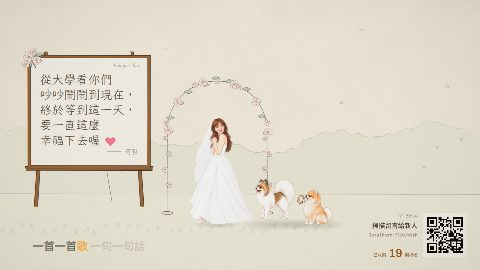
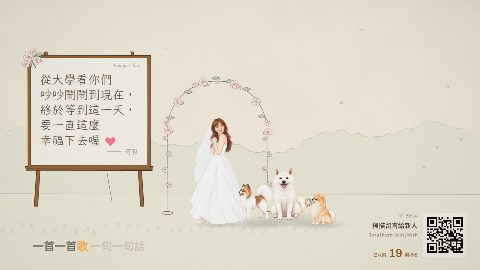
大螢幕：切蛋糕加入元元（跳起來接住彈出的蛋糕）；丟捧花三隻搶（元元用鼻子頂、芃芃咬住）

Changed region(s): [[0.5, 0.6222, 0.7188, 0.8296], [0.875, 0.8, 0.9375, 0.9185], [0.8125, 0.8593, 0.8438, 0.8889]]

diff --git a/frontend/src/wall/scenes/bouquet.ts b/frontend/src/wall/scenes/bouquet.ts
@@ -1,9 +1,11 @@
 // 丟捧花（亮、wedding、婚禮服）：午後的草地婚禮。孟庭背對大家（面向左邊），預備一小節，在小節線上把捧花往後甩過頭頂，
-// 捧花沿著一道高高的弧線飛過畫面，芃芃在拍點上跳起來一口咬住（QQ 早一拍跳、撲空），然後叼著捧花得意地坐好，孟庭回頭大笑。
-// 角色是 Codex 畫的紙偶（mt_bouquet_*、pp_bouquet，跳起來借 pp_jump／qq_jump）。
+// 捧花沿著一道高高的弧線飛過畫面，三隻狗搶：QQ 早一拍跳、撲空；元元（白色柴犬，最高）下一拍跳起來用鼻子一頂，捧花彈高一點；
+// 再下一拍芃芃跳起來一口咬住，叼著捧花得意地坐好，孟庭回頭大笑。
+// 角色是 Codex 畫的紙偶（mt_bouquet_*、pp_bouquet，跳起來借 pp_jump／qq_jump／yy_jump）。三隻狗同一個場景尺度（大小照 dogs3-lineup.png）。
 //  - 預備：孟庭抱著捧花跟著拍子「一、二、三」往下盪（每拍壓一下），小節線前一拍往下蹲最低 → **小節線上甩出去**（throw，
-//    捧花從圖上她頭後面的位置接手給程式飛）→ 兩拍後落在芃芃嘴邊：芃芃起跳、最高點剛好在那一拍咬到；QQ 早一拍跳、撲空落地。
-//    咬到的下一個小節線孟庭回頭（turn）、芃芃換成叼著捧花坐好（pp_bouquet），每拍搖一下；QQ 在旁邊繞著跳。
+//    捧花從圖上她頭後面的位置接手給程式飛）→ 第 1 拍 QQ 跳、撲空 → 第 2 拍元元跳到最高、鼻子頂到捧花（一小圈火花），捧花往右彈一道小弧線
+//    → 第 3 拍芃芃起跳、最高點剛好咬到。下一個小節線孟庭回頭（turn）、芃芃換成叼著捧花坐好（pp_bouquet），每拍搖一下；
+//    QQ 在旁邊繞著跳，元元正面坐好張嘴笑（穩重，只跟著拍子搖尾巴一樣地晃）。
 //  - **焦點是主打留言**：寫在左邊草地上的木框迎賓板（白底、左上角一束手繪的花），深墨手寫字、署名；
 //    照「留言尺寸與版面比例標準 v2」：字 40～60、板子最大 500 × 420，高度跟著留言。沒有留言時板子寫邀請、字淡，歌詞變主角。
 //  - 歌詞在草地前面（下三分之一，比留言小一級 40～52），照跟唱規則逐字亮。孟庭身後一座花拱門。
@@ -16,7 +18,7 @@ import { F, font, loadText } from '../engine/type';
 import { LIN, rgba, mixRgba } from '../engine/palette';
 import { clamp, ease, prog, hash } from '../engine/util';
 import { lyricAt, layoutLyric, drawLyric, barAfter, msgChars } from './_motifs';
-import { inkFor, inkLine, inkPath, inkShape, inkPoly, inkEllipse, heartPop, arcAt, arcPts, drawNote, paperBG, type Pt, type Ink, type Note } from './_couple';
+import { inkFor, inkLine, inkPath, inkShape, inkPoly, inkEllipse, heartPop, arcAt, drawNote, paperBG, type Pt, type Ink, type Note } from './_couple';
 import { loadPuppets, drawPick, drawPuppet, puppetPoint, puppetBox, puppetShadow, puppetIn, jumpArc, breathe, beatKick, hop, noteV2, tightenNote, type PuppetOpts } from './_puppet';
 import { lyricV2 } from './_v2';
 
@@ -25,10 +27,14 @@ export const spec: PlateSpecDecl = { group: 'couple', family: 'wedding', paper: 
 const FLOOR = 890;
 const SZ = 440;
 /** 孟庭（翻過來面向左、背對右邊的「賓客」）、芃芃與 QQ（翻過來面向左，看著飛過來的捧花）。 */
-const OM_X = 870, PP_X = 1250, QQ_X = 1100;
-const DOG_S = 1.25;
+const OM_X = 870, PP_X = 1272, QQ_X = 1025, YY_X = 1140;
+/** 元元站在另外兩隻後面一點（地面往上 18 px），三隻擠在一起搶但看得出是三隻。 */
+const YY_BACK = 18;
+const DOG_S = 1.1;
 /** 芃芃、QQ 跳多高。 */
-const PJUMP = 150, QJUMP = 90;
+const PJUMP = 150, QJUMP = 90, YJUMP = 118;
+/** 元元頂完之後，捧花彈到芃芃嘴邊的小弧線有多高（px）。 */
+const BOUNCE_UP = 110;
 /** 迎賓板：最大的範圍（標準 v2）、寫字的內距；底邊固定在畫架上。 */
 const BOARD = { x: 120, bottom: 660, w: 500, h: 420 };
 const PAD = { x: 36, top: 56, bottom: 30 };
@@ -39,7 +45,10 @@ const LYR = { x: 150, base: 990, w: 1120 };
 /** 出手那一格孟庭的樣子（往後仰、整張往上一送之前）：捧花的起點照這個姿勢算，跟 drawOmena 在出手那一刻的參數一樣。 */
 const THROW_O: PuppetOpts = { h: SZ, flip: true, rot: -0.08, pivot: 0.3, squash: -0.06 };
 const INVITE = '掃描右下角 QR code，把祝福寫上大螢幕';
-const P = { ready: 'mt_bouquet_ready', throw: 'mt_bouquet_throw', turn: 'mt_bouquet_turn', ppHold: 'pp_bouquet', ppJump: 'pp_jump', ppStand: 'pp_stand', qqJump: 'qq_jump', qqStand: 'qq_stand' } as const;
+const P = {
+  ready: 'mt_bouquet_ready', throw: 'mt_bouquet_throw', turn: 'mt_bouquet_turn', ppHold: 'pp_bouquet', ppJump: 'pp_jump', ppStand: 'pp_stand',
+  qqJump: 'qq_jump', qqStand: 'qq_stand', yyStand: 'yy_stand', yyJump: 'yy_jump', yySit: 'yy_sit',
+} as const;
 
 export default class Bouquet extends Scene {
   paper = paperBG();
@@ -50,13 +59,14 @@ export default class Bouquet extends Scene {
   note: Note | null = null;
   board = { x: BOARD.x, y: BOARD.bottom - BOARD.h, w: BOARD.w, h: BOARD.h };
   /** 出手、咬到、回頭的時間；QQ 撲空的時間。 */
-  tThrow = 0; tCatch = 0; tTurn = 0; tMiss = 0;
+  tThrow = 0; tCatch = 0; tTurn = 0; tMiss = 0; tHead = 0;
   keys: [number, string][] = [];
   /** throw 那張圖上捧花與緞帶的位置（出手那一格的姿勢）：飛出去的就是這一束。 */
   from: Pt & { r?: number } = { x: 0, y: 0 };
   ribbon: Pt & { r: number } = { x: 0, y: 0, r: 0 };
+  /** 元元跳到最高時鼻子的位置（頂到捧花的那一點）、芃芃跳到最高時嘴的位置（咬到的那一點）。 */
+  head: Pt = { x: 0, y: 0 };
   to: Pt = { x: 0, y: 0 };
-  arc: Pt[] = [];
   lyricSize = 52;
   msgT0 = 0;
 
@@ -72,16 +82,18 @@ export default class Bouquet extends Scene {
     const nb = (this.ctx.end - s) / Math.max(0.3, au.timeOfBar(b0 + 1) - au.timeOfBar(b0));
     this.tThrow = barAfter(au, s + Math.max(1.2, bp * 3), nb >= 8 ? 1 : 0);
     const tb = Math.round(au.beatAt(this.tThrow));
-    this.tCatch = au.timeOfBeat(tb + 2);
     this.tMiss = au.timeOfBeat(tb + 1);
+    this.tHead = au.timeOfBeat(tb + 2);
+    this.tCatch = au.timeOfBeat(tb + 3);
     this.tTurn = au.timeOfBar(Math.round(au.barAt(this.tThrow)) + 1);
     this.keys = [[-1e9, P.ready], [this.tThrow, P.throw], [this.tTurn, P.turn]];
-    // ---- 捧花飛的弧線：從 throw 那張圖上捧花的位置，到芃芃跳到最高時嘴的位置
+    // ---- 捧花飛的路線：throw 那張圖上捧花的位置 → 元元跳到最高時的鼻子 → 芃芃跳到最高時的嘴
     this.from = this.pointOr(P.throw, 'bouquet', OM_X, FLOOR, THROW_O, 0.75, 0.05);
     this.ribbon = puppetPoint(P.throw, 'ribbon', OM_X, FLOOR, THROW_O) ?? { ...this.from, r: 0 };
     const m = puppetPoint(P.ppJump, 'mouth', PP_X, FLOOR - PJUMP, { h: SZ, scale: DOG_S, flip: true });
     this.to = m ?? { x: PP_X - 90, y: FLOOR - PJUMP - 60 };
-    this.arc = arcPts(this.from, this.to, Math.min(this.from.y, this.to.y) - ARC_UP, 72);
+    const nose = puppetPoint(P.yyJump, 'mouth', YY_X, FLOOR - YY_BACK - YJUMP, { h: SZ, scale: DOG_S, flip: true });
+    this.head = nose ? { x: nose.x - 6, y: nose.y - 14 } : { x: YY_X - 90, y: FLOOR - 300 };
     // ---- 迎賓板：標準 v2 的字級，板子的寬高跟著留言
     const c = this.fg.ctx;
     const w = BOARD.w - PAD.x * 2, hmax = BOARD.h - PAD.top - PAD.bottom;
@@ -230,8 +242,9 @@ export default class Bouquet extends Scene {
     // ---- 迎賓板上的留言
     this.drawBoard(c, t);
     // ---- 狗、孟庭、飛在空中的捧花
-    this.drawDogs(c, ink, t, bp);
+    // 孟庭在拱門下、狗在她前面搶捧花（狗後畫：QQ 靠近她的裙擺，不要被蓋住）
     this.drawOmena(c, t, bp);
+    this.drawDogs(c, ink, t, bp);
     this.flight(c, ink, t);
     this.petals(c, ink, t);
 
@@ -269,25 +282,62 @@ export default class Bouquet extends Scene {
     drawPick(c, this.keys, t, OM_X, FLOOR - lift, { h: SZ, flip: true, spin: en.spin, alpha: en.alpha, squash, rot, pivot: 0.3, hide: [`${P.throw}:bouquet`, `${P.throw}:ribbon`] });
   }
 
-  /** 捧花在空中：沿著弧線飛（一邊轉），兩拍後到芃芃嘴邊；咬到之後由 pp_bouquet 那張圖接手。 */
-  private flight(c: CanvasRenderingContext2D, ink: Ink, t: number) {
-    if (t < this.tThrow || t >= this.tCatch) return;
-    const u = (t - this.tThrow) / (this.tCatch - this.tThrow);
-    const q = arcAt(this.from, this.to, Math.min(this.from.y, this.to.y) - ARC_UP, u);
-    // 飛到最高的時候放大一點（像往鏡頭飛過來），遠處的桌子也看得到是一束捧花
-    this.flyingBouquet(c, q.x, q.y, this.spinAt(u), 1 + 0.5 * Math.sin(Math.PI * u));
-    // 飛過的地方留一道很淡的訊號色細線
-    const pts: Pt[] = [];
-    for (let k = 0; k <= 14; k++) { const v = Math.max(0, u - k * 0.02); pts.push(arcAt(this.from, this.to, Math.min(this.from.y, this.to.y) - ARC_UP, v)); }
-    const sg = LIN.signal;
-    this.glow.polyline(pts, 2, [sg[0] * 1.6, sg[1] * 1.6, sg[2] * 1.6], 0.5);
+  /** 捧花在空中的位置與飛行進度（0..1，給轉圈用）：第一段高高的弧線到元元的鼻子，第二段被頂起來的小弧線到芃芃嘴邊。 */
+  private bouquetAt(t: number): (Pt & { u: number }) | null {
+    if (t < this.tThrow || t >= this.tCatch) return null;
+    if (t < this.tHead) {
+      const u = (t - this.tThrow) / (this.tHead - this.tThrow);
+      return { ...arcAt(this.from, this.head, Math.min(this.from.y, this.head.y) - ARC_UP, u), u: u * 0.8 };
+    }
+    const u = (t - this.tHead) / (this.tCatch - this.tHead);
+    return { ...arcAt(this.head, this.to, Math.min(this.head.y, this.to.y) - BOUNCE_UP, u), u: 0.8 + 0.2 * u };
   }
 
-  /** 芃芃：坐著等（每拍歪一下）→ 起跳、最高點在咬到的那一拍 → 叼著捧花坐好、每拍搖一下（嘴邊冒愛心）。QQ：早一拍跳、撲空，之後繞著跳。 */
+  /** 捧花在空中：沿著兩段弧線飛（一邊轉），元元頂到的那一下鼻子前冒一小圈火花；咬到之後由 pp_bouquet 那張圖接手。 */
+  private flight(c: CanvasRenderingContext2D, ink: Ink, t: number) {
+    const q = this.bouquetAt(t);
+    if (!q) return;
+    // 第一段飛到最高的時候放大一點（像往鏡頭飛過來），遠處的桌子也看得到是一束捧花
+    const big = t < this.tHead ? 0.5 * Math.sin(Math.PI * (q.u / 0.8)) : 0;
+    this.flyingBouquet(c, q.x, q.y, this.spinAt(q.u), 1 + big);
+    // 飛過的地方留一道很淡的訊號色細線
+    const pts: Pt[] = [];
+    for (let k = 0; k <= 14; k++) { const p = this.bouquetAt(Math.max(this.tThrow, t - k * 0.02)); if (p) pts.push(p); }
+    const sg = LIN.signal;
+    if (pts.length > 1) this.glow.polyline(pts, 2, [sg[0] * 1.6, sg[1] * 1.6, sg[2] * 1.6], 0.5);
+    // 元元頂到：鼻子前一小圈往外的短線（訊號色，發光）
+    const d = t - this.tHead;
+    if (d >= 0 && d < 0.25) {
+      const k = d / 0.25, H0 = this.head;
+      for (let i = 0; i < 8; i++) {
+        const a = (i / 8) * Math.PI * 2, r0 = 10 + 30 * k, r1 = r0 + 14 * (1 - k);
+        this.glow.seg2(H0.x + Math.cos(a) * r0, H0.y + Math.sin(a) * r0, H0.x + Math.cos(a) * r1, H0.y + Math.sin(a) * r1, 1.6, [sg[0] * 2.5, sg[1] * 2.5, sg[2] * 2.5], 1 - k);
+      }
+    }
+  }
+
+  /**
+   * 三隻狗（元元站在後面一點，先畫）：
+   * 元元：站著看（每拍輕輕點頭）→ 第 2 拍跳到最高、鼻子頂到捧花 → 落地之後正面坐好、張嘴笑，跟著拍子左右晃。
+   * QQ：早一拍跳、撲空，之後繞著跳。芃芃：站著等 → 第 3 拍起跳、最高點咬到 → 叼著捧花坐好、每拍搖一下（嘴邊冒愛心）。
+   */
   private drawDogs(c: CanvasRenderingContext2D, ink: Ink, t: number, bp: number) {
     const au = this.ctx.audio;
     const air = Math.min(0.62, bp * 1.3);
     const shadowC = '60,70,40';
+    // 元元
+    const ey = puppetIn(t, this.ctx.start + 0.35, 0.45);
+    if (ey.alpha > 0) {
+      const oy: PuppetOpts = { h: SZ, scale: DOG_S, flip: true, spin: ey.spin, alpha: ey.alpha };
+      const airY = Math.min(0.6, bp * 1.25);
+      const j = jumpArc(t, this.tHead - airY / 2, this.tHead + airY / 2, YJUMP, { crouch: 0.1, land: 0.18 });
+      const gy = FLOOR - YY_BACK;
+      puppetShadow(c, 'yy', YY_X, gy, { h: SZ * DOG_S, lift: -j.y, alpha: 0.28 * ey.alpha, color: shadowC });
+      // 跳起來那張嘴前畫了球：這裡頂的是捧花，一律蓋掉
+      if (j.air) drawPuppet(c, P.yyJump, YY_X, gy + j.y, { ...oy, hide: ['ball'], squash: j.squash, rot: 0.1 - 0.2 * j.u, pivot: 0.5 });
+      else if (t >= this.tHead) drawPuppet(c, P.yySit, YY_X, gy, { ...oy, flip: false, squash: j.squash + 0.02 * beatKick(au, t, 0.3), rot: 0.035 * Math.sin(au.beatAt(t) * Math.PI), pivot: 0.1 });
+      else drawPuppet(c, P.yyStand, YY_X, gy, { ...oy, squash: j.squash + 0.02 * beatKick(au, t, 0.3) + breathe(t, 0.01, 2.6), rot: -0.02 * beatKick(au, t, 0.3), pivot: 0.3 });
+    }
     // QQ
     const eq = puppetIn(t, this.ctx.start + 0.3, 0.45);
     if (eq.alpha > 0) {

diff --git a/frontend/src/wall/scenes/cake.ts b/frontend/src/wall/scenes/cake.ts
@@ -8,7 +8,10 @@
 //    （每層的寬度不一樣，照子句一層一層斷行）；署名寫在蛋糕檯的桌巾上（最後一行下面）。照「留言尺寸與版面比例標準 v2」：
 //    字 40～60，整座蛋糕的字加起來 ≤ 640 × 430，放在畫面左半。第一拍起一個字一個字擠上去。沒有留言時蛋糕上寫邀請、字淡，歌詞變主角。
 //  - 歌詞在長桌前面的地板上（下三分之一，比留言小一級 40～52），照跟唱規則逐字亮。
-//  - 次要動作：QQ 在桌子左邊站起來討（每拍搖一下，切下去那一刻開心地跳一下）；幾片花瓣慢慢飄；右邊大窗戶斜斜的光。
+//  - 三隻狗（2026-09-30 加入第三隻：白色柴犬元元）坐在長桌前面的地上一起等：芃芃、QQ 在左邊站起來討（每拍搖一下），
+//    切下去那一刻兩隻博美開心地跳一下；元元比較大、坐在右邊宣文孟庭的腳前面，**下一拍切下來的一小塊蛋糕從刀口彈出來，元元跳起來一口接住**
+//    （頂點落在拍點上，嘴邊冒一顆小愛心）。三隻用同一個場景尺度（大小照 dogs3-lineup.png）。
+//  - 次要動作：幾片花瓣慢慢飄；右邊大窗戶斜斜的光。
 //  - 鏡頭：整個窗格慢慢推近蛋糕；切下去那一下輕輕一頓。
 import * as THREE from 'three';
 import { Scene, type Frame, type Msg, type PostOverrides, type PlateSpecDecl } from '../engine/scene';
@@ -20,7 +23,7 @@ import { clamp, ease, prog, hash } from '../engine/util';
 import { tokens, wrapGreedy } from '../engine/text';
 import { drawHeart } from '../engine/motifs';
 import { lyricAt, layoutLyric, drawLyric, barAfter, beatAfter, drawMessage, signature } from './_motifs';
-import { inkFor, inkLine, inkPath, inkShape, inkPoly, inkEllipse, heartPop, lyricOnPath, paperBG, type Pt, type Ink } from './_couple';
+import { inkFor, inkLine, inkPath, inkShape, inkPoly, inkEllipse, heartPop, arcAt, paperBG, type Pt, type Ink } from './_couple';
 import { loadPuppets, drawPick, pick, drawPuppet, puppetPoint, puppetBox, puppetShadow, puppetIn, jumpArc, breathe, beatKick } from './_puppet';
 import { msgMaxFor, sigV2, lyricV2, V2 } from './_v2';
 
@@ -32,8 +35,11 @@ const SZ = 700;
 const CP_X = 1080;
 /** 餵蛋糕那張兩個人站得比較開：往左挪一點，宣文才不會露出長桌右邊（右下角 QR 那一區也要空著）。 */
 const FEED_DX = -40;
-const QQ_X = 160;
-const DOG_S = 1.15;
+/** 三隻狗（在長桌前面的地上）：芃芃、QQ 在左邊蛋糕下面，元元在右邊兩個人的腳前面、翻過來面向蛋糕。三隻同一個縮放。 */
+const PP_X = 430, QQ_X = 235, YY_X = 1112;
+const DOG_S = 1;
+/** 元元接蛋糕跳多高、博美跳多高（px）。 */
+const YJUMP = 34, PJUMP = 40;
 /** 三層蛋糕（上 → 下）的寬、每層最多寫幾行；最下層右邊留給刀切（字不寫到那裡）。 */
 const TIERS = [{ w: 360, rows: 1 }, { w: 480, rows: 2 }, { w: 620, rows: 3 }] as const;
 const KNIFE_ROOM = 96;
@@ -43,7 +49,10 @@ const TIP_UP = 42;
 /** 歌詞：長桌前面的地板上（左邊對齊），最後一排的基線。 */
 const LYR = { x: 150, base: 972, w: 1120 };
 const INVITE = '掃描右下角 QR code，把祝福寫上大螢幕';
-const P = { ready: 'cp_cake_ready', cut: 'cp_cake_cut', feed: 'cp_cake_feed', qqBeg: 'qq_beg', qqJump: 'qq_jump' } as const;
+const P = {
+  ready: 'cp_cake_ready', cut: 'cp_cake_cut', feed: 'cp_cake_feed',
+  ppBeg: 'pp_beg', ppJump: 'pp_jump', qqBeg: 'qq_beg', qqJump: 'qq_jump', yyBeg: 'yy_beg', yyJump: 'yy_jump',
+} as const;
 /**
  * 切下去那一下用哪一張。2026-09-29 cp_cake_cut 的孟庭眼睛太細（新人要求兩眼一定張開），暫時改用 ready＋整張往下沉；
  * 2026-09-30 Codex 重畫了眼睛（明顯張開、往下看刀），換回 cut。以後又要暫時換掉，把這裡改成 P.ready，下沉（SINK）會自動打開。
@@ -145,6 +154,8 @@ export default class Cake extends Scene {
   feeds: number[] = [];
   keys: [number, string][] = [];
   knife: Pt = { x: 0, y: 0 };
+  /** 元元跳到最高時嘴的位置（接蛋糕的那一點）。 */
+  yyMouth: Pt = { x: 0, y: 0 };
   lyricSize = 52;
 
   override async init() {
@@ -198,6 +209,7 @@ export default class Cake extends Scene {
     const tierH = got.rows.map((r, i) => Math.max(r.length ? r.length * lh + 26 : 0, [92, 112, 132][i]!));
     const tip = this.pointOr(P.cut, 'knife', 0.12, 0.42);
     this.knife = tip;
+    this.yyMouth = puppetPoint(P.yyJump, 'mouth', YY_X, FLOOR - YJUMP, { h: SZ, scale: DOG_S, flip: true }) ?? { x: YY_X - 110, y: FLOOR - 330 };
     const right = tip.x + KNIFE_ROOM * 0.7;
     const cx = right - TIERS[2].w / 2;
     const top = tip.y + TIP_UP + STAND;
@@ -337,8 +349,9 @@ export default class Cake extends Scene {
     // ---- 蛋糕上的字（擠花）、切痕、署名
     this.drawIcing(c, t);
     this.drawCuts(c, ink, t);
-    // ---- QQ（在桌子前面的地上）
-    this.drawQQ(c, t);
+    // ---- 三隻狗（在桌子前面的地上）、切下來飛給元元的那一小塊蛋糕
+    this.drawDogs(c, t);
+    this.drawChunks(c, ink, t);
     // ---- 切下去那一刻：碎屑、刀面的反光；餵蛋糕：一顆小愛心
     this.crumbs(c, ink, t);
     for (const tf of this.feeds) {
@@ -433,24 +446,80 @@ export default class Cake extends Scene {
     drawPick(c, this.keys, t, x, FLOOR - lift, { h: SZ, flip: true, spin: en.spin, alpha: en.alpha, squash, rot, pivot: 0.3 });
   }
 
-  /** QQ：在桌子左邊站起來討（每拍搖一下）；切下去那一刻開心地跳一下。 */
-  private drawQQ(c: CanvasRenderingContext2D, t: number) {
+  /** 切下來的那一小塊蛋糕被元元接到的時間：切下去之後的下一拍（落在拍點上）。 */
+  private catchT(tc: number) { const au = this.ctx.audio; return au.timeOfBeat(Math.round(au.beatAt(tc)) + 1); }
+
+  /**
+   * 三隻狗：平常站起來討（每拍搖一下、輪流點頭）；切下去那一刻芃芃、QQ 開心地跳一下（QQ 早一點點，不要兩隻同步）；
+   * 下一拍元元跳起來、最高點剛好在拍點上咬到那一小塊蛋糕，落地嚼一嚼。
+   */
+  private drawDogs(c: CanvasRenderingContext2D, t: number) {
     const au = this.ctx.audio;
-    const en = puppetIn(t, this.ctx.start + 0.25, 0.45);
+    const shadowC = '70,45,25';
+    const hopDog = (who: 'pp' | 'qq', x: number, beg: string, jump: string, delay: number, height: number, phase: number) => {
+      const en = puppetIn(t, this.ctx.start + 0.2 + phase * 0.1, 0.45);
+      if (en.alpha <= 0) return;
+      const o = { h: SZ, scale: DOG_S, spin: en.spin, alpha: en.alpha };
+      for (const tc of this.cuts) {
+        const t0 = tc + delay, t1 = t0 + Math.min(0.42, au.beatPeriod(tc) * 0.9);
+        if (t > t0 - 0.12 && t < t1 + 0.3) {
+          const j = jumpArc(t, t0, t1, height, { crouch: 0.1, land: 0.18 });
+          puppetShadow(c, who, x, FLOOR, { h: SZ * DOG_S, lift: -j.y, alpha: 0.32 * en.alpha, color: shadowC });
+          if (j.air) drawPuppet(c, jump, x, FLOOR + j.y, { ...o, hide: ['ball'], rot: -0.1 + 0.2 * j.u, pivot: 0.5, squash: j.squash });
+          else drawPuppet(c, beg, x, FLOOR, { ...o, squash: j.squash });
+          return;
+        }
+      }
+      puppetShadow(c, who, x, FLOOR, { h: SZ * DOG_S, alpha: 0.32 * en.alpha, color: shadowC });
+      drawPuppet(c, beg, x, FLOOR, { ...o, rot: 0.04 * Math.sin(au.beatAt(t) * Math.PI + phase * 1.6), pivot: 0.1, squash: 0.04 * beatKick(au, t, 0.25) });
+    };
+    hopDog('qq', QQ_X, P.qqBeg, P.qqJump, 0.02, PJUMP + 6, 0);
+    hopDog('pp', PP_X, P.ppBeg, P.ppJump, 0.1, PJUMP, 1);
+    // 元元：翻過來面向蛋糕，坐著討（穩重，只跟著拍子輕輕點頭）；接蛋糕那一拍跳起來
+    const en = puppetIn(t, this.ctx.start + 0.4, 0.45);
     if (en.alpha <= 0) return;
-    const o = { h: SZ, scale: DOG_S, spin: en.spin, alpha: en.alpha };
+    const o = { h: SZ, scale: DOG_S, flip: true, spin: en.spin, alpha: en.alpha };
+    const bp = au.beatPeriod(t);
     for (const tc of this.cuts) {
-      const t0 = tc + 0.04, t1 = tc + Math.min(0.46, au.beatPeriod(tc) * 0.95);
-      if (t > t0 - 0.12 && t < t1 + 0.3) {
-        const j = jumpArc(t, t0, t1, 46, { crouch: 0.1, land: 0.18 });
-        puppetShadow(c, 'qq', QQ_X, FLOOR, { h: SZ * DOG_S, lift: -j.y, alpha: 0.32 * en.alpha, color: '70,45,25' });
-        if (j.air) drawPuppet(c, P.qqJump, QQ_X, FLOOR + j.y, { ...o, hide: ['ball'], rot: -0.1 + 0.2 * j.u, pivot: 0.5, squash: j.squash });
-        else drawPuppet(c, P.qqBeg, QQ_X, FLOOR, { ...o, squash: j.squash });
+      const ct = this.catchT(tc), air = Math.min(0.5, bp * 1.1);
+      if (t > ct - air / 2 - 0.12 && t < ct + air / 2 + 0.6) {
+        const j = jumpArc(t, ct - air / 2, ct + air / 2, YJUMP, { crouch: 0.08, land: 0.16 });
+        puppetShadow(c, 'yy', YY_X, FLOOR, { h: SZ * DOG_S, lift: -j.y, alpha: 0.32 * en.alpha, color: shadowC });
+        // 跳起來那張嘴前畫了球：這裡咬的是蛋糕，一律蓋掉
+        if (j.air) drawPuppet(c, P.yyJump, YY_X, FLOOR + j.y, { ...o, hide: ['ball'], rot: 0.08 - 0.16 * j.u, pivot: 0.5, squash: j.squash });
+        else {
+          // 落地之後嚼一嚼（上下壓兩三下）、冒一顆小愛心
+          const d = t - (ct + air / 2);
+          const chew = d > 0 ? 0.035 * Math.abs(Math.sin(d * 18)) * Math.exp(-d / 0.3) : 0;
+          drawPuppet(c, P.yyBeg, YY_X, FLOOR, { ...o, squash: j.squash + chew });
+          const [bx, by, bw] = puppetBox(P.yyBeg, YY_X, FLOOR, o);
+          heartPop(c, bx + bw * 0.25, by + 10, 24, (t - ct - 0.1) / 1.1);
+        }
         return;
       }
     }
-    puppetShadow(c, 'qq', QQ_X, FLOOR, { h: SZ * DOG_S, alpha: 0.32 * en.alpha, color: '70,45,25' });
-    drawPuppet(c, P.qqBeg, QQ_X, FLOOR, { ...o, rot: 0.04 * Math.sin(au.beatAt(t) * Math.PI), pivot: 0.1, squash: 0.04 * beatKick(au, t, 0.25) });
+    puppetShadow(c, 'yy', YY_X, FLOOR, { h: SZ * DOG_S, alpha: 0.32 * en.alpha, color: shadowC });
+    drawPuppet(c, P.yyBeg, YY_X, FLOOR, { ...o, rot: -0.02 * Math.sin(au.beatAt(t) * Math.PI * 0.5), pivot: 0.1, squash: 0.02 * beatKick(au, t, 0.3) + breathe(t, 0.01, 2.6) });
+  }
+
+  /** 切下來的一小塊蛋糕：切下去那一刻從刀口往右彈出來，畫一道小弧線，下一拍落進元元跳起來的嘴裡。 */
+  private drawChunks(c: CanvasRenderingContext2D, ink: Ink, t: number) {
+    const B = this.tiers[2]!;
+    const from = { x: B.x + B.w - 24, y: B.y + B.h * 0.4 };
+    for (const tc of this.cuts) {
+      const ct = this.catchT(tc);
+      if (t < tc || t > ct) continue;
+      const u = (t - tc) / Math.max(0.05, ct - tc);
+      const q = arcAt(from, this.yyMouth, Math.min(from.y, this.yyMouth.y) - 70, u);
+      c.save();
+      c.translate(q.x, q.y);
+      c.rotate(u * 5);
+      // 三角形的一小塊：奶油白的蛋糕、中間一條淡淡的莓果夾層
+      inkShape(c, [{ x: -11, y: 8 }, { x: 12, y: 7 }, { x: 0, y: -12 }], { ink, t, fill: rgba('bone'), w: 0.5, seed: 95 });
+      c.fillStyle = mixRgba('rose', 'paper', 0.45);
+      c.fillRect(-6, 0, 12, 2.5);
+      c.restore();
+    }
   }
 
   /** 切下去那一刻：刀切進去的地方噴出幾粒奶油碎屑（往外、往下掉），刀面一道訊號色的反光。 */
